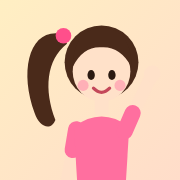
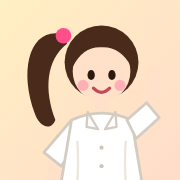
Add family cats saying 媽咪我愛你 and update her outfit
- After every calculation one of the five family cats (white
  Chinchilla, orange Chinchilla, two tabbies with their own face
  patterns, American Shorthair) peeks up from the bottom with a
  「媽咪我愛你 ❤」 bubble; random, never the same cat twice in a row,
  pointer-events off so it never blocks a tap; fades instead of moving
  for reduced-motion users
- She now wears a loose white shirt, black sporty shorts with white
  side stripes and pink slippers; home-screen icon redrawn to match
- CI runs inside Playwright's official image so browsers are not
  installed on every run (the previous run hung on that step)
- Tests for the cat pop-up and its randomness

Claude-Session: https://claude.ai/code/session_01WXeLH7z6nhzGcoXXCG39EP

Changed region(s): [[0.2222, 0.5556, 0.8889, 1.0]]

diff --git a/index.html b/index.html
@@ -131,7 +131,7 @@
   }
   .figure * { transform-box: view-box; }
   .figure .ponytail { transform-origin: 39px 21px; }
-  .figure .arm-wave { transform-origin: 66px 62px; }
+  .figure .arm-wave { transform-origin: 68px 61px; }
   .figure .cat-tail { transform-origin: 106px 150px; }
   .figure .girl { transform-origin: 56px 150px; }
   .figure.play .girl { animation: hop 0.5s ease-out 1 both; }
@@ -307,6 +307,57 @@
 
   footer { margin-top: 22px; text-align: center; font-size: 13px; font-weight: 600; color: var(--muted); line-height: 1.6; }
 
+  /* ---------- cat pop-up: 媽咪我愛你 (never blocks taps) ---------- */
+  .cat-pop {
+    position: fixed;
+    left: 50%;
+    bottom: 0;
+    z-index: 50;
+    width: 150px;
+    margin-left: -75px;
+    padding-bottom: env(safe-area-inset-bottom);
+    pointer-events: none;
+    visibility: hidden;
+    transform: translateY(115%);
+  }
+  .cat-pop.show { visibility: visible; animation: peek 3s cubic-bezier(.22, .9, .32, 1.15) both; }
+  .cat-face { display: none; width: 150px; height: 156px; margin-bottom: -14px; filter: drop-shadow(0 -2px 6px rgba(120, 70, 20, 0.18)); }
+  .cat-face.on { display: block; }
+  .bubble {
+    position: absolute;
+    bottom: calc(146px + env(safe-area-inset-bottom));
+    left: 50%;
+    transform: translateX(-50%);
+    white-space: nowrap;
+    padding: 8px 18px;
+    border-radius: 999px;
+    background: #fff;
+    border: 3px solid #ffb3cb;
+    color: #e0457b;
+    font-size: 21px;
+    font-weight: 900;
+    box-shadow: 0 6px 16px rgba(224, 69, 123, 0.25);
+  }
+  .bubble::after {
+    content: "";
+    position: absolute;
+    left: 50%;
+    bottom: -11px;
+    margin-left: -9px;
+    border: 9px solid transparent;
+    border-top-color: #ffb3cb;
+    border-bottom: 0;
+  }
+  .cat-pop.show .heart { display: inline-block; animation: beat 0.6s ease-in-out 0.5s 3; }
+  @keyframes peek {
+    0% { transform: translateY(115%); }
+    14% { transform: translateY(-5%); }
+    20%, 84% { transform: translateY(0); }
+    100% { transform: translateY(115%); }
+  }
+  @keyframes beat { 0%, 100% { transform: scale(1); } 50% { transform: scale(1.35); } }
+  @keyframes fadepop { 0% { opacity: 0; } 10%, 85% { opacity: 1; } 100% { opacity: 0; } }
+
   @media (max-width: 360px) {
     .card { padding: 22px 12px 22px; border-radius: 28px; }
     .radio { padding: 6px 4px; font-size: 15px; gap: 4px; }
@@ -318,6 +369,8 @@
   @media (prefers-reduced-motion: reduce) {
     * { transition: none !important; }
     .shine, .figure * { animation: none !important; }
+    .cat-pop.show { transform: none; animation-name: fadepop; animation-timing-function: linear; }
+    .cat-pop.show .heart { animation: none; }
     .shine { background-position: 0 0; }
   }
 </style>
@@ -347,21 +400,31 @@
         <circle cx="48" cy="43" r="2.4" fill="#ff8fab" opacity="0.6"/>
         <circle cx="64" cy="43" r="2.4" fill="#ff8fab" opacity="0.6"/>
         <path d="M52.5,44.2 Q56,47.8 59.5,44.2" stroke="#c4475a" stroke-width="1.4" fill="none" stroke-linecap="round"/>
-        <!-- neck + body -->
+        <!-- neck -->
         <rect x="53" y="48" width="6" height="8" fill="#ffe1c9"/>
-        <line x1="45" y1="63" x2="40" y2="90" stroke="#ffe1c9" stroke-width="5.5" stroke-linecap="round"/>
-        <line x1="45" y1="62" x2="43.5" y2="71" stroke="#ff6f9f" stroke-width="7" stroke-linecap="round"/>
-        <rect x="47" y="90" width="8" height="58" rx="4" fill="#4f6fd1"/>
-        <rect x="57" y="90" width="8" height="58" rx="4" fill="#4f6fd1"/>
-        <ellipse cx="50" cy="149" rx="6.5" ry="3.2" fill="#5a3226"/>
-        <ellipse cx="62" cy="149" rx="6.5" ry="3.2" fill="#5a3226"/>
-        <path d="M44,61 Q56,52 68,61 L66,94 L46,94 Z" fill="#ff6f9f"/>
-        <path d="M46,88 L66,88" stroke="#ffffff" stroke-width="2" opacity="0.6"/>
+        <!-- long legs + home slippers -->
+        <rect x="46" y="104" width="7" height="43" rx="3.5" fill="#ffe1c9"/>
+        <rect x="59" y="104" width="7" height="43" rx="3.5" fill="#ffe1c9"/>
+        <ellipse cx="49" cy="148.5" rx="6.5" ry="3" fill="#ff8fab"/>
+        <ellipse cx="63" cy="148.5" rx="6.5" ry="3" fill="#ff8fab"/>
+        <!-- black sporty shorts with white side stripes -->
+        <path d="M40,88 L72,88 L74.5,109 L58.5,110 L56,99 L53.5,110 L37.5,109 Z" fill="#1f1f22"/>
+        <path d="M41.2,91 L39.2,108 M43,91 L41.1,108.2 M44.8,91 L43,108.4 M70.8,91 L72.8,108 M69,91 L70.9,108.2 M67.2,91 L69,108.4" stroke="#ffffff" stroke-width="0.9"/>
+        <!-- hanging arm -->
+        <line x1="36" y1="74" x2="35" y2="93" stroke="#ffe1c9" stroke-width="5.5" stroke-linecap="round"/>
+        <!-- loose white shirt -->
+        <path d="M43,58 L31,72 L38.5,78 L45,69 Z" fill="#ffffff" stroke="#d3ccc1" stroke-width="1.2" stroke-linejoin="round"/>
+        <path d="M43,58 Q56,52 69,58 L75,94 Q56,99 37,94 Z" fill="#ffffff" stroke="#d3ccc1" stroke-width="1.2" stroke-linejoin="round"/>
+        <path d="M45.5,67 Q46.5,81 44.5,93 M66.5,67 Q65.5,81 67.5,93" stroke="#ece6dc" stroke-width="1" fill="none"/>
+        <path d="M50,54.5 L54.5,62 L49.5,61 Z M62,54.5 L57.5,62 L62.5,61 Z" fill="#ffffff" stroke="#d3ccc1" stroke-width="1" stroke-linejoin="round"/>
+        <circle cx="56" cy="70" r="0.9" fill="#cfc6b8"/>
+        <circle cx="56" cy="78" r="0.9" fill="#cfc6b8"/>
+        <circle cx="56" cy="86" r="0.9" fill="#cfc6b8"/>
         <!-- waving arm -->
         <g class="arm-wave">
-          <line x1="66" y1="63" x2="77" y2="40" stroke="#ffe1c9" stroke-width="5.5" stroke-linecap="round"/>
-          <line x1="66" y1="63" x2="69.5" y2="55" stroke="#ff6f9f" stroke-width="7" stroke-linecap="round"/>
-          <circle cx="78" cy="38" r="3.6" fill="#ffe1c9"/>
+          <line x1="77.5" y1="54" x2="78.6" y2="40" stroke="#ffe1c9" stroke-width="5.5" stroke-linecap="round"/>
+          <circle cx="78.8" cy="38" r="3.6" fill="#ffe1c9"/>
+          <path d="M67,58 L75.5,50.5 L81,57 L71,66 Z" fill="#ffffff" stroke="#d3ccc1" stroke-width="1.2" stroke-linejoin="round"/>
         </g>
       </g>
       <!-- cat -->
@@ -449,6 +512,114 @@
     紀錄只存在這支手機的瀏覽器裡。
   </footer>
 </main>
+
+  <!-- After each calculation one of our five cats peeks up and says 媽咪我愛你 -->
+  <div id="catPop" class="cat-pop" aria-hidden="true">
+    <div class="bubble">媽咪我愛你 <span class="heart">❤</span></div>
+    <svg class="cat-face" data-cat="white-chinchilla" viewBox="0 0 100 104" focusable="false">
+        <path d="M19,46 Q16,20 41,32 Z M81,46 Q84,20 59,32 Z" fill="#ffffff" stroke="#d9d2c8" stroke-width="1.2" stroke-linejoin="round"/>
+        <path d="M23,41 Q22,27 35,33 Z M77,41 Q78,27 65,33 Z" fill="#f4b6b8"/>
+        <path d="M50.0,30.0 Q55.9,26.1 60.4,31.2 Q67.1,28.9 70.0,34.8 Q77.0,34.2 78.0,40.4 Q84.7,41.5 83.7,47.5 Q89.5,50.4 86.6,55.7 Q91.2,60.0 86.6,64.3 Q89.5,69.6 83.7,72.5 Q84.7,78.5 78.0,79.6 Q77.0,85.8 70.0,85.2 Q67.1,91.1 60.4,88.8 Q55.9,93.9 50.0,90.0 Q44.1,93.9 39.6,88.8 Q32.9,91.1 30.0,85.2 Q23.0,85.8 22.0,79.6 Q15.3,78.5 16.3,72.5 Q10.5,69.6 13.4,64.3 Q8.8,60.0 13.4,55.7 Q10.5,50.4 16.3,47.5 Q15.3,41.5 22.0,40.4 Q23.0,34.2 30.0,34.8 Q32.9,28.9 39.6,31.2 Q44.1,26.1 50.0,30.0 Z" fill="#ffffff" stroke="#d9d2c8" stroke-width="1.4" stroke-linejoin="round"/>
+        <ellipse cx="37" cy="57" rx="7.4" ry="7.6" fill="#47b39a" stroke="#2f2f2f" stroke-width="1.8"/>
+        <ellipse cx="37" cy="57.5" rx="3.0" ry="5.5" fill="#1b1816"/>
+        <circle cx="38.7" cy="54.6" r="1.9" fill="#ffffff"/>
+        <ellipse cx="63" cy="57" rx="7.4" ry="7.6" fill="#47b39a" stroke="#2f2f2f" stroke-width="1.8"/>
+        <ellipse cx="63" cy="57.5" rx="3.0" ry="5.5" fill="#1b1816"/>
+        <circle cx="64.7" cy="54.6" r="1.9" fill="#ffffff"/>
+        <path d="M46.5,65 L53.5,65 L50,69 Z" fill="#e6849a"/>
+        <path d="M50,69 Q47,73.5 43.5,71.5 M50,69 Q53,73.5 56.5,71.5" stroke="#c9a9a0" stroke-width="1.4" fill="none" stroke-linecap="round"/>
+        <path d="M31,67 L9,63 M31,70 L9,72 M69,67 L91,63 M69,70 L91,72" stroke="#d8d0c4" stroke-width="1" stroke-linecap="round"/>
+        <ellipse cx="31" cy="97" rx="10.5" ry="7" fill="#ffffff" stroke="#d9d2c8" stroke-width="1.2"/>
+        <ellipse cx="69" cy="97" rx="10.5" ry="7" fill="#ffffff" stroke="#d9d2c8" stroke-width="1.2"/>
+        <path d="M28,92 L28,96 M34,92 L34,96 M66,92 L66,96 M72,92 L72,96" stroke="#d9d2c8" stroke-width="1.1" stroke-linecap="round"/>
+    </svg>
+    <svg class="cat-face" data-cat="orange-chinchilla" viewBox="0 0 100 104" focusable="false">
+        <path d="M19,46 Q16,20 41,32 Z M81,46 Q84,20 59,32 Z" fill="#f2b45e" stroke="#d8913a" stroke-width="1.2" stroke-linejoin="round"/>
+        <path d="M23,41 Q22,27 35,33 Z M77,41 Q78,27 65,33 Z" fill="#f4b6b8"/>
+        <path d="M50.0,30.0 Q55.9,26.1 60.4,31.2 Q67.1,28.9 70.0,34.8 Q77.0,34.2 78.0,40.4 Q84.7,41.5 83.7,47.5 Q89.5,50.4 86.6,55.7 Q91.2,60.0 86.6,64.3 Q89.5,69.6 83.7,72.5 Q84.7,78.5 78.0,79.6 Q77.0,85.8 70.0,85.2 Q67.1,91.1 60.4,88.8 Q55.9,93.9 50.0,90.0 Q44.1,93.9 39.6,88.8 Q32.9,91.1 30.0,85.2 Q23.0,85.8 22.0,79.6 Q15.3,78.5 16.3,72.5 Q10.5,69.6 13.4,64.3 Q8.8,60.0 13.4,55.7 Q10.5,50.4 16.3,47.5 Q15.3,41.5 22.0,40.4 Q23.0,34.2 30.0,34.8 Q32.9,28.9 39.6,31.2 Q44.1,26.1 50.0,30.0 Z" fill="#f2b45e" stroke="#d8913a" stroke-width="1.4" stroke-linejoin="round"/>
+        <ellipse cx="50" cy="71" rx="15" ry="9.5" fill="#fbe0b4"/>
+        <path d="M44,34 L45,40 M50,32 L50,39 M56,34 L55,40" stroke="#de9437" stroke-width="1.6" stroke-linecap="round"/>
+        <ellipse cx="37" cy="57" rx="7.4" ry="7.6" fill="#5bb37a" stroke="#6b4320" stroke-width="1.8"/>
+        <ellipse cx="37" cy="57.5" rx="3.0" ry="5.5" fill="#1b1816"/>
+        <circle cx="38.7" cy="54.6" r="1.9" fill="#ffffff"/>
+        <ellipse cx="63" cy="57" rx="7.4" ry="7.6" fill="#5bb37a" stroke="#6b4320" stroke-width="1.8"/>
+        <ellipse cx="63" cy="57.5" rx="3.0" ry="5.5" fill="#1b1816"/>
+        <circle cx="64.7" cy="54.6" r="1.9" fill="#ffffff"/>
+        <path d="M46.5,65 L53.5,65 L50,69 Z" fill="#d9707f"/>
+        <path d="M50,69 Q47,73.5 43.5,71.5 M50,69 Q53,73.5 56.5,71.5" stroke="#b0703a" stroke-width="1.4" fill="none" stroke-linecap="round"/>
+        <path d="M31,67 L9,63 M31,70 L9,72 M69,67 L91,63 M69,70 L91,72" stroke="#fff3e0" stroke-width="1" stroke-linecap="round"/>
+        <ellipse cx="31" cy="97" rx="10.5" ry="7" fill="#f2b45e" stroke="#d8913a" stroke-width="1.2"/>
+        <ellipse cx="69" cy="97" rx="10.5" ry="7" fill="#f2b45e" stroke="#d8913a" stroke-width="1.2"/>
+        <path d="M28,92 L28,96 M34,92 L34,96 M66,92 L66,96 M72,92 L72,96" stroke="#d8913a" stroke-width="1.1" stroke-linecap="round"/>
+    </svg>
+    <svg class="cat-face" data-cat="tabby-mask" viewBox="0 0 100 104" focusable="false">
+        <path d="M20,46 L22,16 L44,33 Z M80,46 L78,16 L56,33 Z" fill="#b48a5a"/>
+        <path d="M25,39 L26,23 L38,33 Z M75,39 L74,23 L62,33 Z" fill="#f4b6b8"/>
+        <clipPath id="catClipA"><ellipse cx="50" cy="60" rx="36" ry="30"/></clipPath>
+        <g clip-path="url(#catClipA)">
+          <rect x="0" y="0" width="100" height="100" fill="#b48a5a"/>
+          <path d="M37,38 L41,47 L45,39 L50,48 L55,39 L59,47 L63,38 M44,30 L45,37 M56,30 L55,37 M50,30 L50,36 M14,56 Q21,56 27,60 M15,64 Q21,64 27,67 M86,56 Q79,56 73,60 M85,64 Q79,64 73,67 M30,53 Q25,51 20,52 M70,53 Q75,51 80,52" stroke="#5e4330" stroke-width="2.4" fill="none" stroke-linecap="round" stroke-linejoin="round"/>
+          <path d="M10,72 Q30,67 43,70 Q50,73 57,70 Q70,67 90,72 L90,100 L10,100 Z" fill="#fbf8f3"/>
+        </g>
+        <ellipse cx="37" cy="57" rx="6" ry="6.6" fill="#c8d46a"/>
+        <ellipse cx="37" cy="57.5" rx="2.4" ry="4.8" fill="#1b1816"/>
+        <circle cx="38.7" cy="54.6" r="1.5" fill="#ffffff"/>
+        <ellipse cx="63" cy="57" rx="6" ry="6.6" fill="#c8d46a"/>
+        <ellipse cx="63" cy="57.5" rx="2.4" ry="4.8" fill="#1b1816"/>
+        <circle cx="64.7" cy="54.6" r="1.5" fill="#ffffff"/>
+        <path d="M46.5,65 L53.5,65 L50,69 Z" fill="#e8899a"/>
+        <path d="M50,69 Q47,73.5 43.5,71.5 M50,69 Q53,73.5 56.5,71.5" stroke="#5e4330" stroke-width="1.4" fill="none" stroke-linecap="round"/>
+        <path d="M31,67 L9,63 M31,70 L9,72 M69,67 L91,63 M69,70 L91,72" stroke="#e4dccf" stroke-width="1" stroke-linecap="round"/>
+        <ellipse cx="31" cy="97" rx="10.5" ry="7" fill="#fbf8f3" stroke="#d8cbb8" stroke-width="1.2"/>
+        <ellipse cx="69" cy="97" rx="10.5" ry="7" fill="#fbf8f3" stroke="#d8cbb8" stroke-width="1.2"/>
+        <path d="M28,92 L28,96 M34,92 L34,96 M66,92 L66,96 M72,92 L72,96" stroke="#d8cbb8" stroke-width="1.1" stroke-linecap="round"/>
+    </svg>
+    <svg class="cat-face" data-cat="tabby-bangs" viewBox="0 0 100 104" focusable="false">
+        <path d="M20,46 L22,16 L44,33 Z M80,46 L78,16 L56,33 Z" fill="#a98462"/>
+        <path d="M25,39 L26,23 L38,33 Z M75,39 L74,23 L62,33 Z" fill="#f4b6b8"/>
+        <clipPath id="catClipB"><ellipse cx="50" cy="60" rx="36" ry="30"/></clipPath>
+        <g clip-path="url(#catClipB)">
+          <rect x="0" y="0" width="100" height="100" fill="#fbf8f3"/>
+          <path d="M8,20 L92,20 L92,60 Q80,57 70,57 L56,56 L53,40 L50,34 L47,40 L44,56 L30,57 Q20,57 8,60 Z" fill="#a98462"/>
+          <path d="M38,28 L40,36 M62,28 L60,36 M43,24 L46,31 M57,24 L54,31 M16,50 Q22,50 27,53 M84,50 Q78,50 73,53" stroke="#56402f" stroke-width="2.2" fill="none" stroke-linecap="round"/>
+        </g>
+        <ellipse cx="50" cy="60" rx="36" ry="30" fill="none" stroke="#ddd2c2" stroke-width="1.4"/>
+        <ellipse cx="37" cy="57" rx="6" ry="6.6" fill="#a6cf5f"/>
+        <ellipse cx="37" cy="57.5" rx="2.4" ry="4.8" fill="#1b1816"/>
+        <circle cx="38.7" cy="54.6" r="1.5" fill="#ffffff"/>
+        <ellipse cx="63" cy="57" rx="6" ry="6.6" fill="#a6cf5f"/>
+        <ellipse cx="63" cy="57.5" rx="2.4" ry="4.8" fill="#1b1816"/>
+        <circle cx="64.7" cy="54.6" r="1.5" fill="#ffffff"/>
+        <path d="M46.5,65 L53.5,65 L50,69 Z" fill="#e8899a"/>
+        <path d="M50,69 Q47,73.5 43.5,71.5 M50,69 Q53,73.5 56.5,71.5" stroke="#8a7766" stroke-width="1.4" fill="none" stroke-linecap="round"/>
+        <path d="M31,67 L9,63 M31,70 L9,72 M69,67 L91,63 M69,70 L91,72" stroke="#cfc4b4" stroke-width="1" stroke-linecap="round"/>
+        <ellipse cx="31" cy="97" rx="10.5" ry="7" fill="#fbf8f3" stroke="#d8cbb8" stroke-width="1.2"/>
+        <ellipse cx="69" cy="97" rx="10.5" ry="7" fill="#fbf8f3" stroke="#d8cbb8" stroke-width="1.2"/>
+        <path d="M28,92 L28,96 M34,92 L34,96 M66,92 L66,96 M72,92 L72,96" stroke="#d8cbb8" stroke-width="1.1" stroke-linecap="round"/>
+    </svg>
+    <svg class="cat-face" data-cat="american-shorthair" viewBox="0 0 100 104" focusable="false">
+        <path d="M20,46 L22,16 L44,33 Z M80,46 L78,16 L56,33 Z" fill="#c5c9cf"/>
+        <path d="M25,39 L26,23 L38,33 Z M75,39 L74,23 L62,33 Z" fill="#f4b6b8"/>
+        <clipPath id="catClipC"><ellipse cx="50" cy="60" rx="36" ry="30"/></clipPath>
+        <g clip-path="url(#catClipC)">
+          <rect x="0" y="0" width="100" height="100" fill="#c5c9cf"/>
+          <ellipse cx="50" cy="73" rx="16" ry="10" fill="#eceef0"/>
+          <path d="M50,30 L50,44 M44,30 L45,42 M56,30 L55,42 M37,40 L41,48 L45,42 L50,49 L55,42 L59,48 L63,40 M31,58 Q23,61 15,57 M69,58 Q77,61 85,57 M17,67 Q25,64 31,69 M83,67 Q75,64 69,69 M20,46 Q26,47 29,51 M80,46 Q74,47 71,51" stroke="#3c4048" stroke-width="2.6" fill="none" stroke-linecap="round" stroke-linejoin="round"/>
+        </g>
+        <ellipse cx="37" cy="57" rx="6" ry="6.6" fill="#8fc86a"/>
+        <ellipse cx="37" cy="57.5" rx="2.4" ry="4.8" fill="#1b1816"/>
+        <circle cx="38.7" cy="54.6" r="1.5" fill="#ffffff"/>
+        <ellipse cx="63" cy="57" rx="6" ry="6.6" fill="#8fc86a"/>
+        <ellipse cx="63" cy="57.5" rx="2.4" ry="4.8" fill="#1b1816"/>
+        <circle cx="64.7" cy="54.6" r="1.5" fill="#ffffff"/>
+        <path d="M46.5,65 L53.5,65 L50,69 Z" fill="#d9808d"/>
+        <path d="M50,69 Q47,73.5 43.5,71.5 M50,69 Q53,73.5 56.5,71.5" stroke="#3c4048" stroke-width="1.4" fill="none" stroke-linecap="round"/>
+        <path d="M31,67 L9,63 M31,70 L9,72 M69,67 L91,63 M69,70 L91,72" stroke="#ffffff" stroke-width="1" stroke-linecap="round"/>
+        <ellipse cx="31" cy="97" rx="10.5" ry="7" fill="#c5c9cf" stroke="#8d939c" stroke-width="1.2"/>
+        <ellipse cx="69" cy="97" rx="10.5" ry="7" fill="#c5c9cf" stroke="#8d939c" stroke-width="1.2"/>
+        <path d="M28,92 L28,96 M34,92 L34,96 M66,92 L66,96 M72,92 L72,96" stroke="#8d939c" stroke-width="1.1" stroke-linecap="round"/>
+    </svg>
+  </div>
 
 <script>
 (function () {
@@ -729,6 +900,7 @@
     renderResult(rec);
     renderPrev();
     cheer();
+    catLove();
 
     if (document.activeElement && document.activeElement.blur) document.activeElement.blur();
     resultBox.scrollIntoView({ behavior: smoothOrAuto(), block: 'start' });
@@ -841,6 +1013,23 @@
     figure.classList.add('play');
   }
   figure.addEventListener('click', cheer);
+
+  // One of the five cats says 媽咪我愛你, never the same cat twice in a row.
+  var catPop = $('catPop');
+  var catFaces = catPop.querySelectorAll('.cat-face');
+  var lastCat = -1;
+  function catLove() {
+    var i;
+    do { i = Math.floor(Math.random() * catFaces.length); } while (catFaces.length > 1 && i === lastCat);
+    lastCat = i;
+    for (var k = 0; k < catFaces.length; k++) catFaces[k].classList.toggle('on', k === i);
+    catPop.classList.remove('show');
+    void catPop.getBoundingClientRect();
+    catPop.classList.add('show');
+  }
+  catPop.addEventListener('animationend', function (e) {
+    if (e.target === catPop) catPop.classList.remove('show');
+  });
 
   form.addEventListener('submit', function (e) { e.preventDefault(); calculate(); });
   $('resetBtn').addEventListener('click', reset);

diff --git a/tests/calculator.spec.js b/tests/calculator.spec.js
@@ -35,6 +35,29 @@ test('按計算或點她，她會再揮一次手', async ({ page }) => {
   await expect(figure).toHaveClass(/play/);
 });
 
+test('每次算好熱量，會有一隻貓咪跳出來說「媽咪我愛你」，而且不會擋住按鈕', async ({ page }) => {
+  const pop = page.locator('#catPop');
+  await expect(pop.locator('.cat-face')).toHaveCount(5);
+  await calc(page, '10', '2', '3');
+  await expect(pop).toHaveClass(/show/);
+  await expect(pop.locator('.bubble')).toContainText('媽咪我愛你');
+  await expect(pop.locator('.cat-face.on')).toHaveCount(1);
+  // 貓咪還在畫面上的時候，按鈕照樣按得到
+  await page.click('#resetBtn');
+  await expect(page.locator('#can')).toHaveValue('');
+});
+
+test('五隻貓隨機出現，不會連續兩次都是同一隻', async ({ page }) => {
+  await page.fill('#can', '10');
+  const seen = [];
+  for (let i = 0; i < 25; i++) {
+    await page.click('.btn-calc');
+    seen.push(await page.locator('#catPop .cat-face.on').getAttribute('data-cat'));
+  }
+  for (let i = 1; i < seen.length; i++) expect(seen[i]).not.toBe(seen[i - 1]);
+  expect(new Set(seen).size).toBeGreaterThanOrEqual(3);
+});
+
 test('每個輸入框都會跳出有小數點的數字鍵盤', async ({ page }) => {
   for (const id of ['can', 'density', 'water', 'left']) {
     await expect(page.locator('#' + id)).toHaveAttribute('inputmode', 'decimal');

diff --git a/README.md b/README.md
@@ -24,6 +24,7 @@
 - 「上一筆計算」會顯示真正的前一筆（重複按計算不會覆蓋）
 - 輸入到一半重新整理頁面也不會不見；紀錄只存在自己手機的瀏覽器裡
 - 「加入主畫面」後，圖示名稱是「老婆大人」
+- 每次算好熱量，家裡五隻貓（白色金吉拉、橘色金吉拉、兩隻虎斑、美國短毛）會隨機跳一隻出來說「媽咪我愛你 ❤」
 
 ## 開啟 GitHub Pages
 
